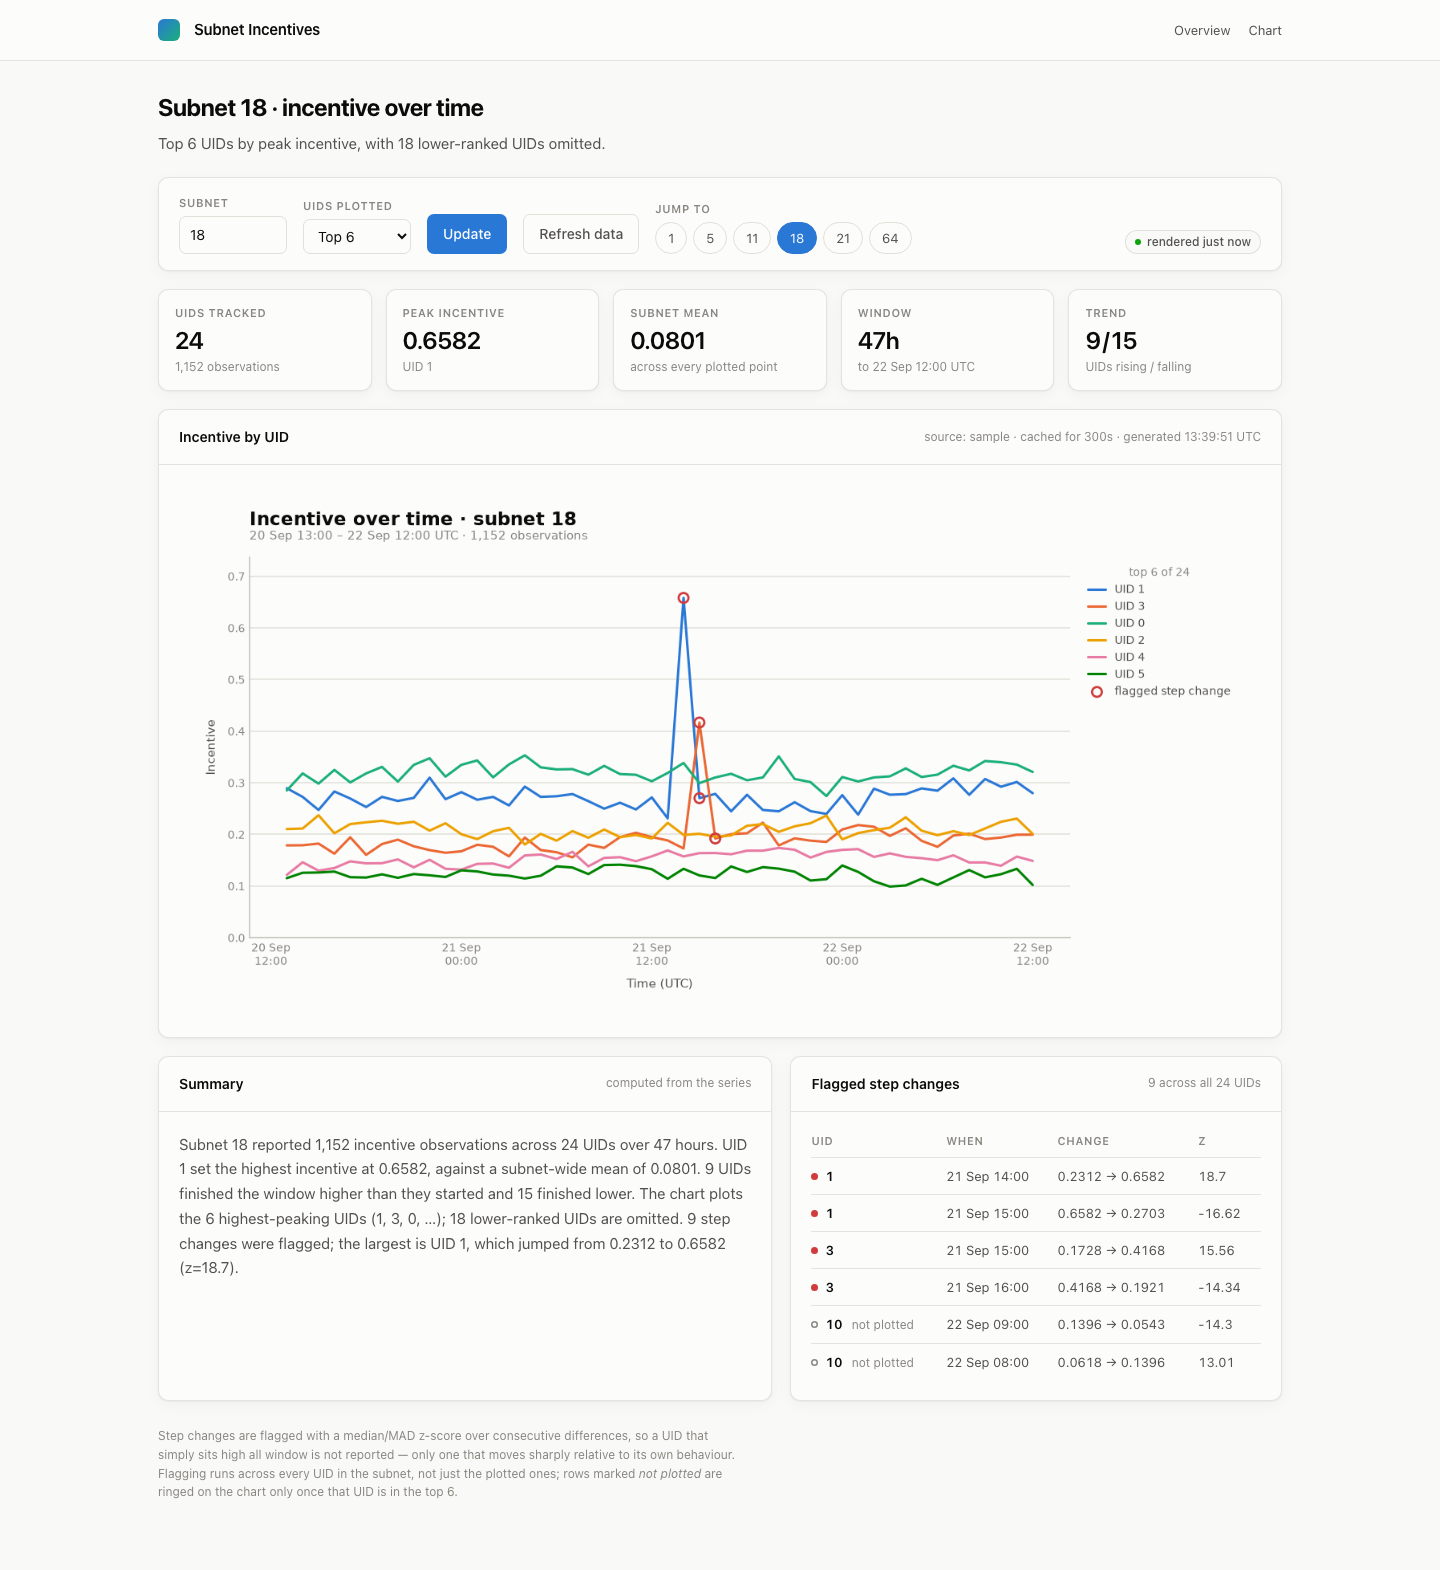
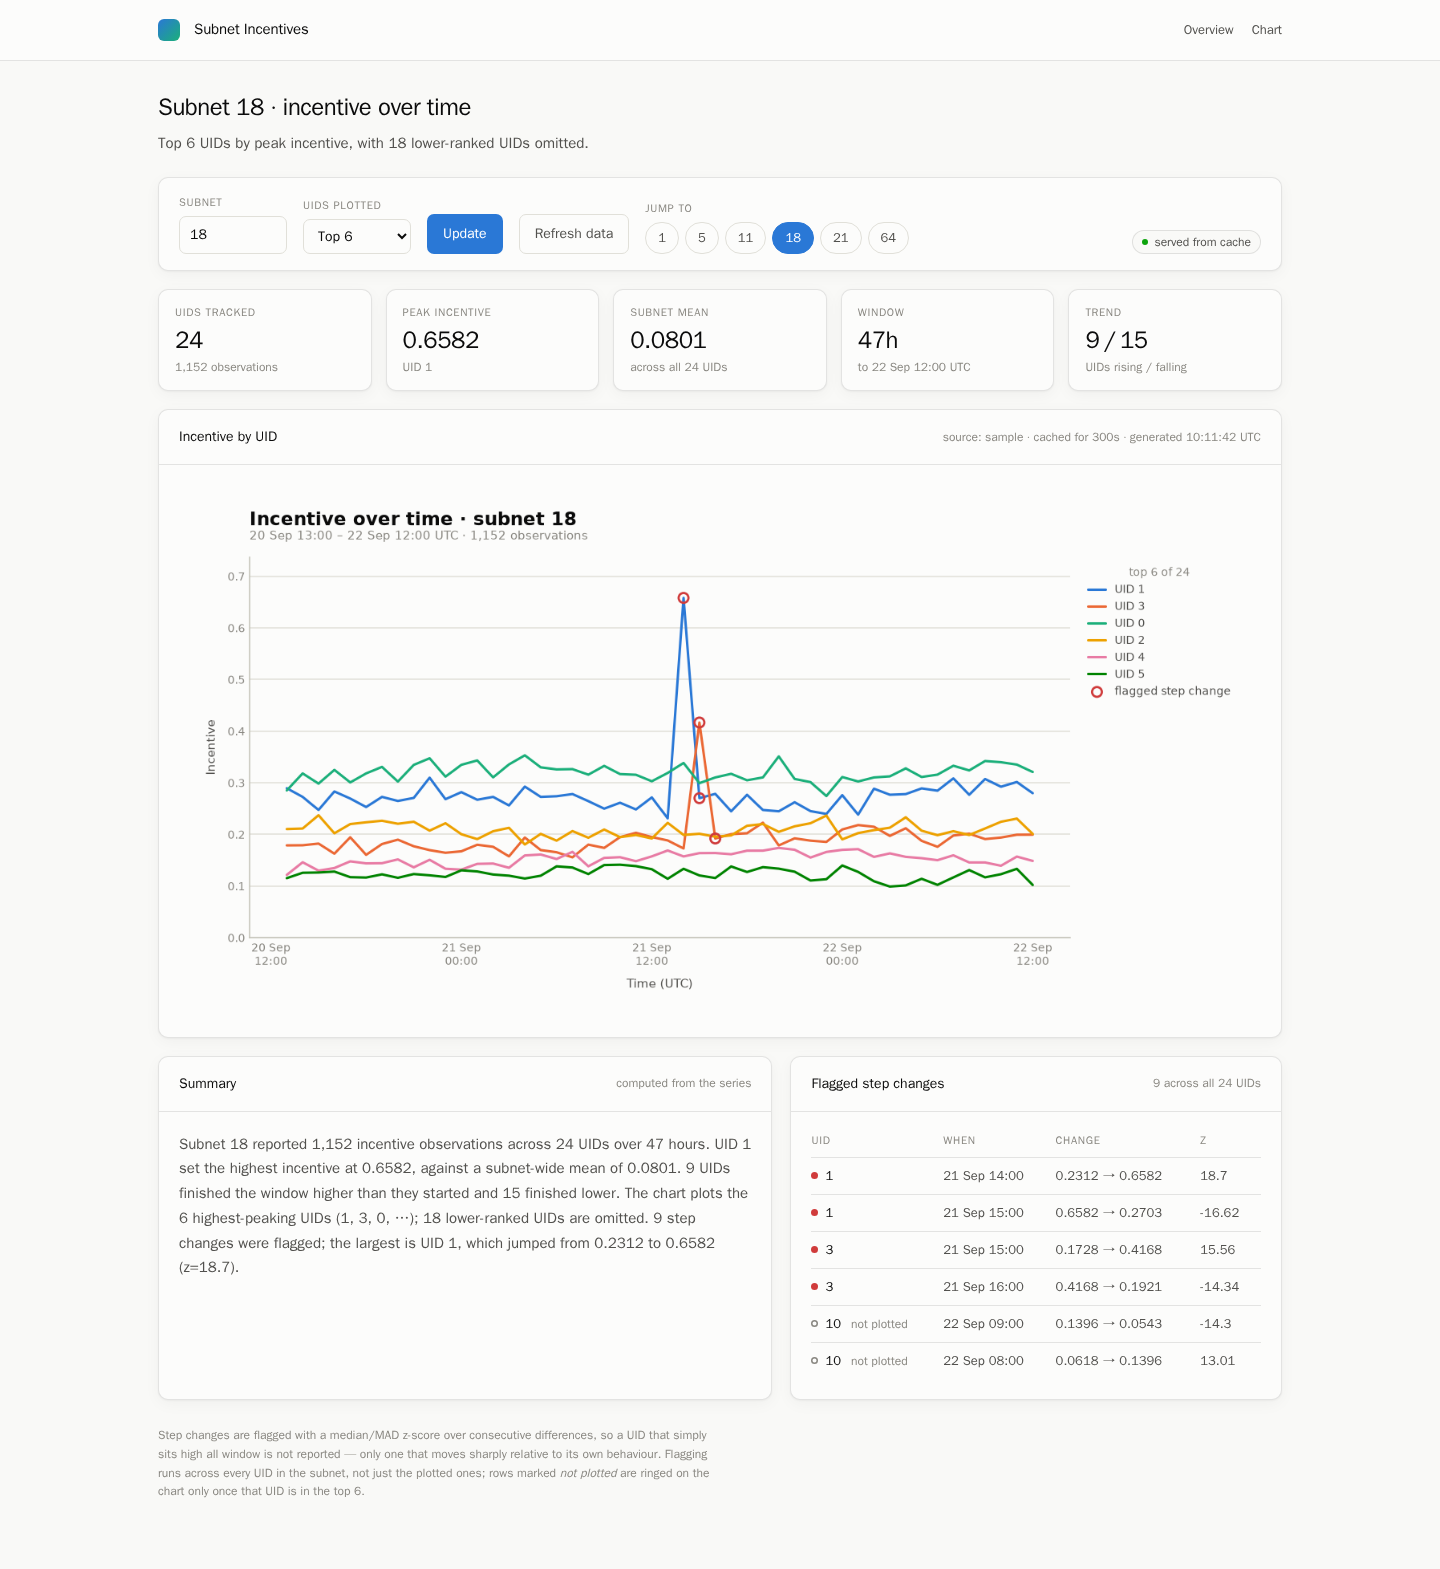
Document the verified Compose path and recapture screenshots
The README said the image build and boot had never been run; both now
work, so docker compose up --build leads the setup section and the
note is gone. Add curl examples captured from the running stack, a
phone-width shot, the current test count and the licence. Screenshots
are retaken so the mean tile shows its corrected label. .env.example
no longer implies that a .env file is loaded.

diff --git a/README.md b/README.md
@@ -10,33 +10,62 @@ reasons — `graphene` and `graphql-core` are not installed.)
 
 ![Subnet dashboard](docs/screenshots/dashboard.png)
 
-That is the whole product. Three more screens, captured with Playwright at
-1440x900 against the deterministic `sample` source, hence reproducible:
+That is the whole product. More screens, captured with Playwright against the
+Docker Compose stack and the deterministic `sample` source, hence reproducible:
 
 | | |
 | --- | --- |
 | [Top four UIDs](docs/screenshots/top-four.png) | At four series or fewer the renderer swaps the legend for direct end-of-line labels (`DIRECT_LABEL_LIMIT`). |
 | [Overview](docs/screenshots/overview.png) | The landing page and subnet picker. |
 | [Upstream unavailable](docs/screenshots/upstream-down.png) | A dead upstream is a 503 page offering other subnets, not a traceback. Nothing is cached from a failed fetch, so "Try again" costs exactly one request. |
+| [Phone width](docs/screenshots/dashboard-mobile.png) | The same dashboard at 390x844: controls wrap and the stat tiles fall to two columns. |
 
 ## Run it
 
 ```bash
-python -m venv project_venv && source project_venv/bin/activate
+docker compose up --build        # then open http://localhost:8240/plot/
+```
+
+That builds the multi-stage, non-root image (gunicorn, two workers by four
+threads), starts Redis next to it as the shared cache, and serves on host port
+8240 with `INCENTIVES_SOURCE=sample`. The container reports healthy once
+`/healthz` answers. No `migrate` step: there is no database. `sample` is the
+in-box deterministic generator (24 UIDs, 48 hours hourly, seeded from the subnet
+id), so the app is populated with no credentials and no network. Set
+`INCENTIVES_SOURCE=graphql` to query `GRAPHQL_API_URL` instead.
+
+Without Docker (Python 3.12, see `.python-version`):
+
+```bash
+python -m venv .venv && source .venv/bin/activate
 pip install -r requirements.txt
 INCENTIVES_SOURCE=sample python manage.py runserver 8240   # then :8240/
 ```
 
-No `migrate` step — there is no database. `sample` is the in-box deterministic
-generator (24 UIDs, 48 hours hourly, seeded from the subnet id), so the app is
-populated with no credentials and no network. Drop it and the default source is
-`graphql`, pointed at `GRAPHQL_API_URL`.
+### Talking to it
 
-`Dockerfile` and `docker-compose.yml` are committed (multi-stage, non-root,
-gunicorn, app plus Redis on host port 8240 with `INCENTIVES_SOURCE=sample`) — but
-know how far that got checked: this repo's uplift report records `docker compose
-config` as parsing OK, and both **Build verified** and **Boot verified** as
-`NOT RUN — deferred, RAM constraint`.
+Captured from the Compose stack above:
+
+```console
+$ curl -s localhost:8240/healthz
+{"status": "ok", "source": "sample"}
+
+$ curl -sI "localhost:8240/plot/chart.png?subnet=18&top=6"
+HTTP/1.1 200 OK
+Content-Type: image/png
+Cache-Control: public, max-age=300
+Content-Length: 116152
+
+$ curl -s "localhost:8240/plot/chart.png?subnet=abc"
+'abc' is not a valid subnet id.          # HTTP 400, text/plain
+
+$ curl -s -o /dev/null -w "%{http_code} %{redirect_url}\n" \
+    "localhost:8240/plot/?subnet=21&top=3&refresh=1"
+302 http://localhost:8240/plot/?subnet=21&top=3
+```
+
+The first `/plot/?subnet=5` took 129 ms (sample fetch plus matplotlib render);
+the repeat took 4 ms and the page said "served from cache".
 
 ## What happens on a request to `/plot/`
 
@@ -174,11 +203,15 @@ Every knob has a working default; the full list is in `graphql/settings.py`.
 | `ANTHROPIC_API_KEY` / `ANTHROPIC_MODEL` | *(unset)* / `claude-opus-5` | Enables the written summary. `AI_SUMMARY_ENABLED` is an independent kill switch. |
 | `DJANGO_SECRET_KEY` / `DJANGO_DEBUG` | insecure dev key / `False` | Set a real key when deployed. `DEBUG` is off by default. |
 
+`.env.example` lists all of them with their defaults. Nothing loads a `.env`
+file automatically: export the values in your shell, or set them in Compose or
+your host's settings.
+
 ## Tests
 
 ```bash
 pip install -r requirements-dev.txt     # runtime requirements + ruff
-python manage.py test                   # Ran 135 tests in 2.968s / OK
+python manage.py test                   # Ran 140 tests in 2.8s / OK
 ruff check . && ruff format --check .
 ```
 
@@ -197,4 +230,9 @@ and `domain` — functions of their arguments, needing no mocks.
   pre-rendering popular subnets on a schedule, not a worker in the request path.
 - **Flagging is statistical, not causal.** A UID moved sharply, not why.
 - **`sample` data is synthetic** — real-shaped, but generated. Screenshots use it.
-- **No authentication and no rate limiting.**
+- **No authentication and no rate limiting.** `?refresh=1` drops one cache
+  entry for anyone who asks, so put a rate limit in front of a public deploy.
+
+## Licence
+
+MIT, see `LICENSE`.
